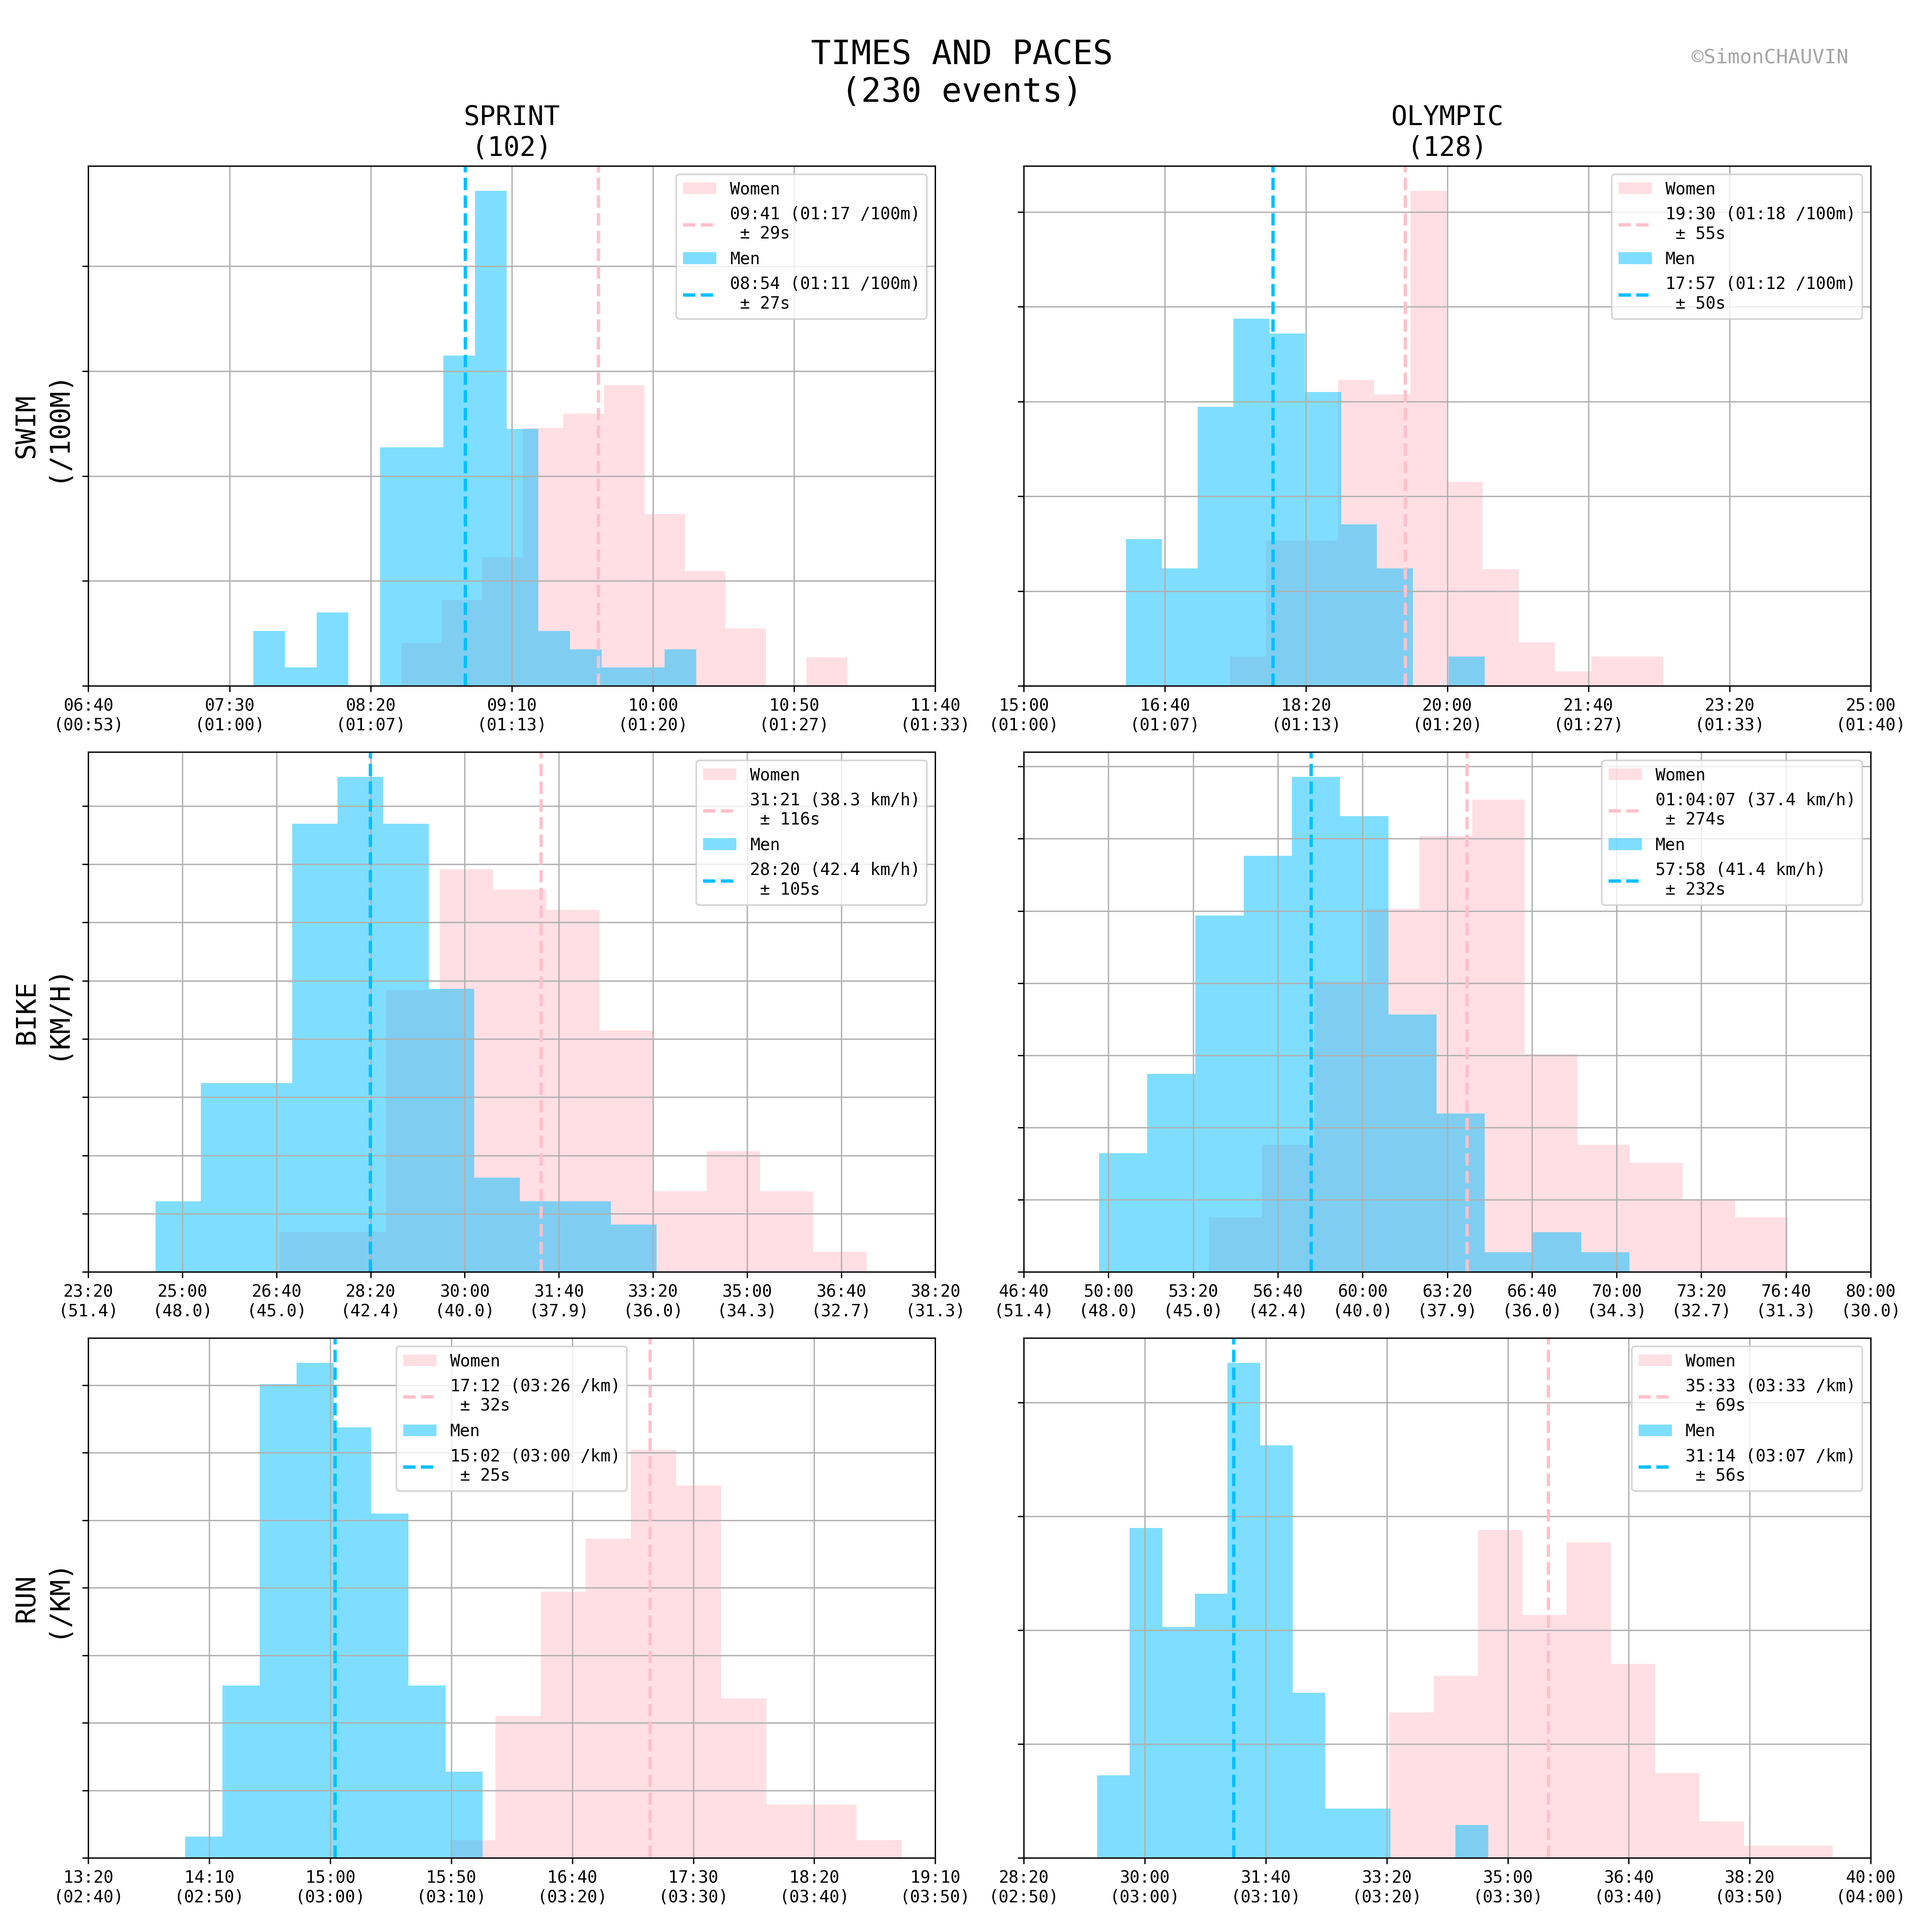
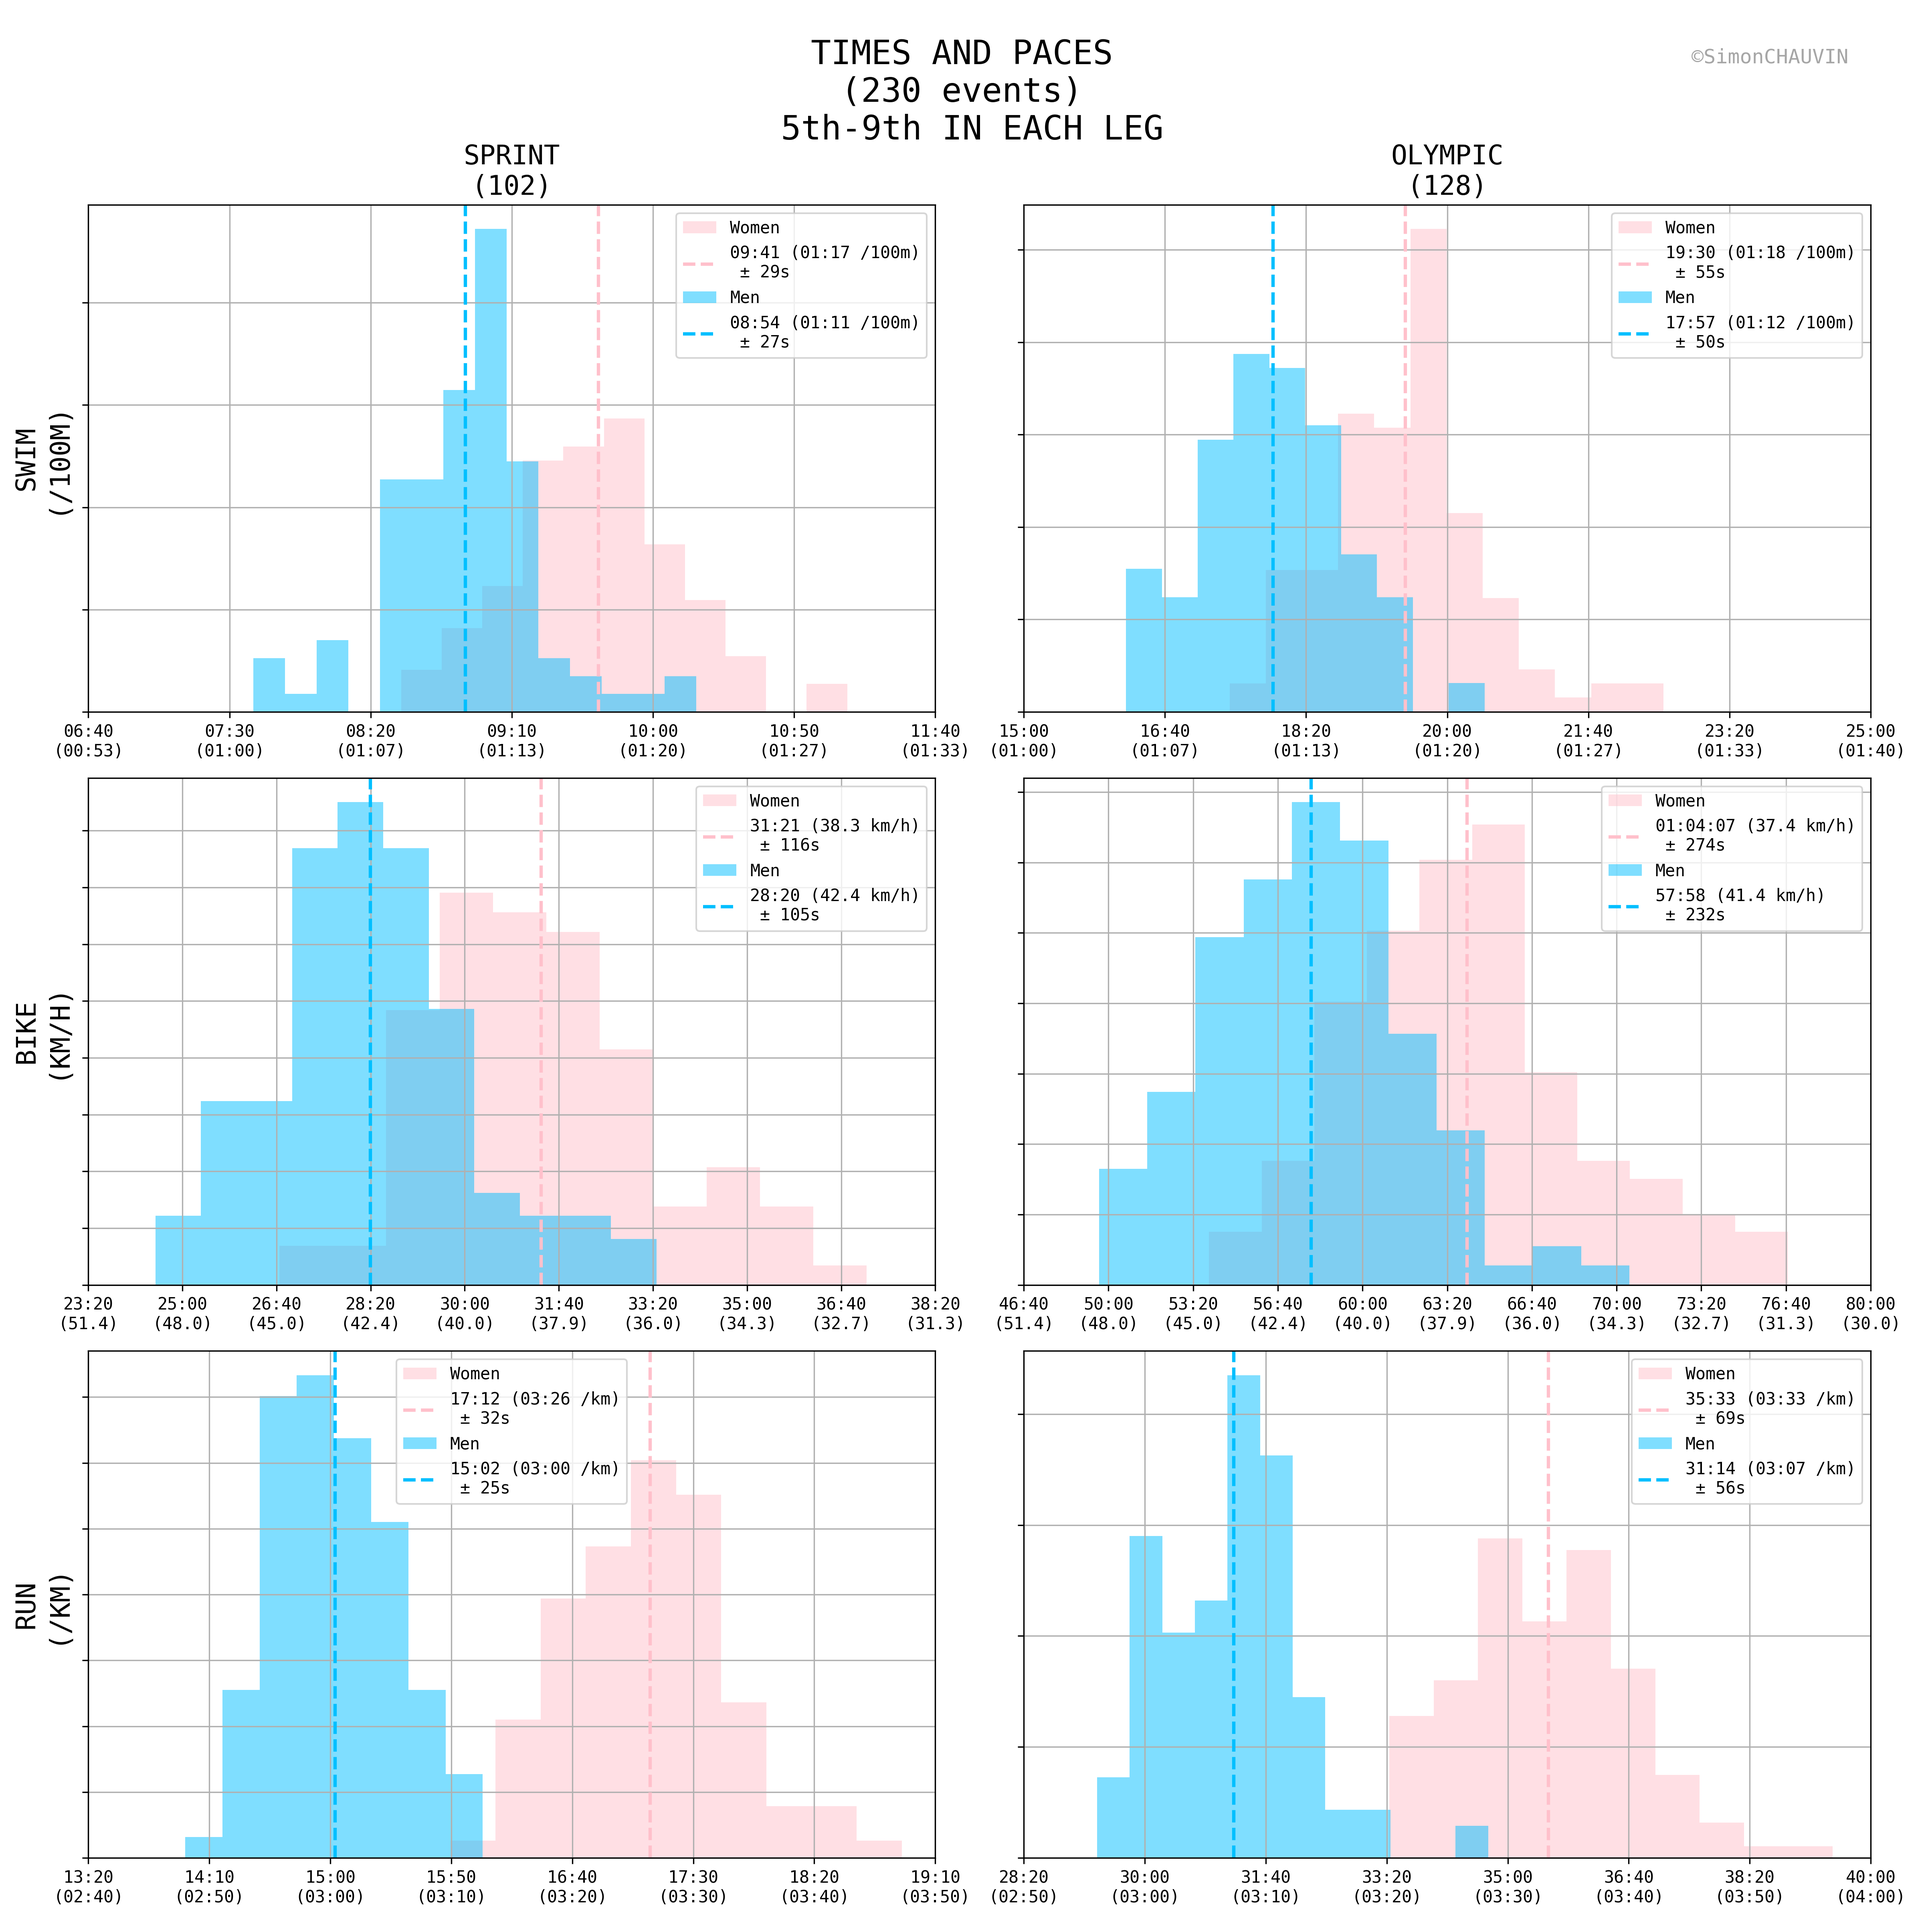
add top3

diff --git a/races.py b/races.py
@@ -484,8 +484,13 @@ def get_events_results() -> pd.DataFrame:
 
     # todo: these params are important and should be set outside
     n_results_min = 25
-    i_first = 4  # 5-th
-    i_last = 9  # 10-th
+    # 5th-9th
+    i_first = 4
+    i_last = 9
+
+    # top3
+    # i_first = 0
+    # i_last = 3
     use_best_in_each_sport = True
     # use_best_in_each_sport = False
 
@@ -631,7 +636,7 @@ def get_events_results() -> pd.DataFrame:
                     events_result[f"{column.replace('_s', '')}_mean{suffix}"] = times.mean()
                     events_result[f"{column.replace('_s', '')}_std{suffix}"] = times.std()
 
-                    times_last = np.array(sorted(list(column_results))[-i_last: -i_first])
+                    times_last = np.array(sorted(list(column_results))[-i_last: -i_first if i_first > 0 else None])
                     # times_last = np.array(sorted(list(column_results))[19: 24])
                     if column in [f"{s}_s" for s in sports]:
                         assert times_last[0] > 1, times_last
@@ -1271,7 +1276,8 @@ def process_sports(df):
     fig, axes = plt.subplots(nrows=3, ncols=2, figsize=(16, 16))
 
     fig.suptitle(
-        f"TIMES AND PACES\n({len(df)} events)",
+        f"TIMES AND PACES\n({len(df)} events)\n 5th-9th IN EACH LEG",
+        # f"TIMES AND PACES\n({len(df)} events)\nTOP-3 IN EACH LEG",
         fontsize=20
     )
 
@@ -1354,6 +1360,7 @@ def process_sports(df):
 
     add_watermark(fig)
     plt.savefig(str(res_dir / "sports_paces.png"), dpi=300)
+    # plt.savefig(str(res_dir / "sports_paces_top3.png"), dpi=300)
 
     plt.show()
 
@@ -1917,12 +1924,14 @@ def process_results_repeated_events(df):
             )
 
             fig.suptitle(
-                f"\n{distance_category.replace('standard', 'olympic').upper()} - {'WOMEN' if suffix == 'w' else 'MEN'}",
+                f"\n{distance_category.replace('standard', 'olympic').upper()} - {'WOMEN' if suffix == 'w' else 'MEN'} - 5th-9th IN EACH LEG",
+                # f"\n{distance_category.replace('standard', 'olympic').upper()} - {'WOMEN' if suffix == 'w' else 'MEN'} - TOP-3 IN EACH LEG",
                 fontsize=20
             )
             plt.tight_layout()
             add_watermark(fig)
             plt.savefig(str(res_dir / f"repeated_events_{distance_category}_{suffix}.png"), dpi=300)
+            # plt.savefig(str(res_dir / f"repeated_events_{distance_category}_{suffix}_top3.png"), dpi=300)
             plt.show()
 
 

diff --git a/README.md b/README.md
@@ -206,6 +206,15 @@ It is worth recalling the [data](#books-data) settings:
 Note: The distribution of swim times includes races **with and without wetsuit**. A [subsequent section](#penguin-wetsuit-benefit) does the distinction (see its _"second method"_ subsection), which reduces the standard deviation by 5-10s.
 
 <details>
+  <summary>Click to expand - 🚀 <strong>Same plots for the Top-3.</strong></summary>
+
+|  ![sports_paces_top3.png](res/sports_paces_top3.png)  | 
+|:-----------------------------------------------------:| 
+| *Times and paces, considering the Top-3 in each leg.* |
+
+</details>
+
+<details>
   <summary>Click to expand - ⏱ <strong>Pace/speed/5k/10k conversion for the run.</strong></summary>
 
 | Run Pace (M:SS) | Speed (km/h) | 5k Time (MM:SS) | 10k Time (MM:SS) |
@@ -962,6 +971,21 @@ By the way, [World Triathlon rules](https://www.triathlon.org/uploads/docs/World
 | ![repeated_events_sprint_m.png](res/repeated_events_sprint_m.png) | 
 |:-----------------------------------------------------------------:| 
 |                       *Sprint format. Men.*                       |
+
+</details>
+
+---
+
+<details>
+  <summary>Click to expand - 🚀 <strong>Same plots for the Top-3.</strong></summary>
+
+| ![repeated_events_standard_w_top3.png](res/repeated_events_standard_w_top3.png) | 
+|:-------------------------------------------------------------------------------:| 
+|                   *Olympic format. Top-3 Women in each leg.*                    |
+
+| ![repeated_events_standard_w_top3.png](res/repeated_events_standard_m_top3.png) | 
+|:-------------------------------------------------------------------------------:| 
+|                    *Olympic format. Top-3 Men in each leg.*                     |
 
 </details>
 
